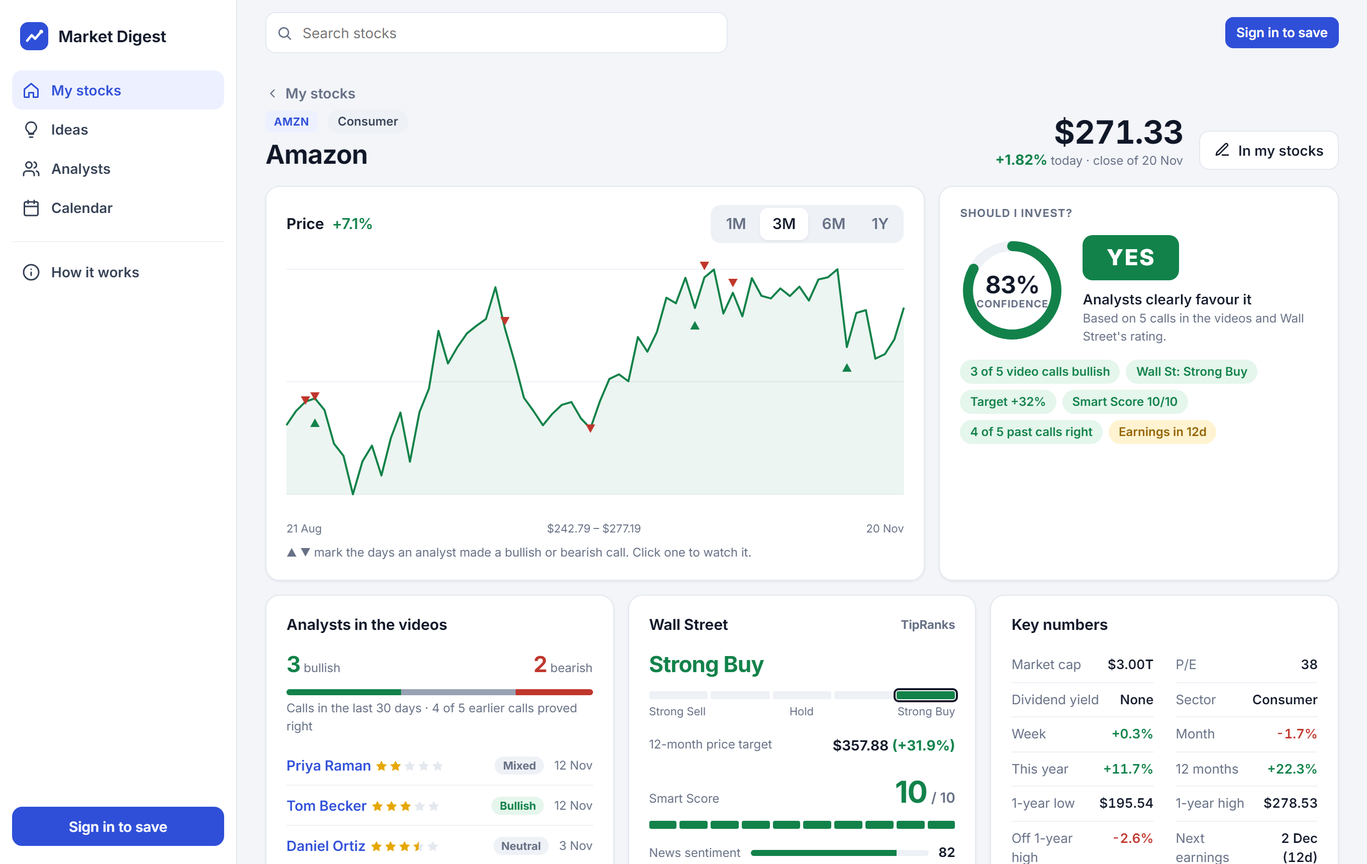
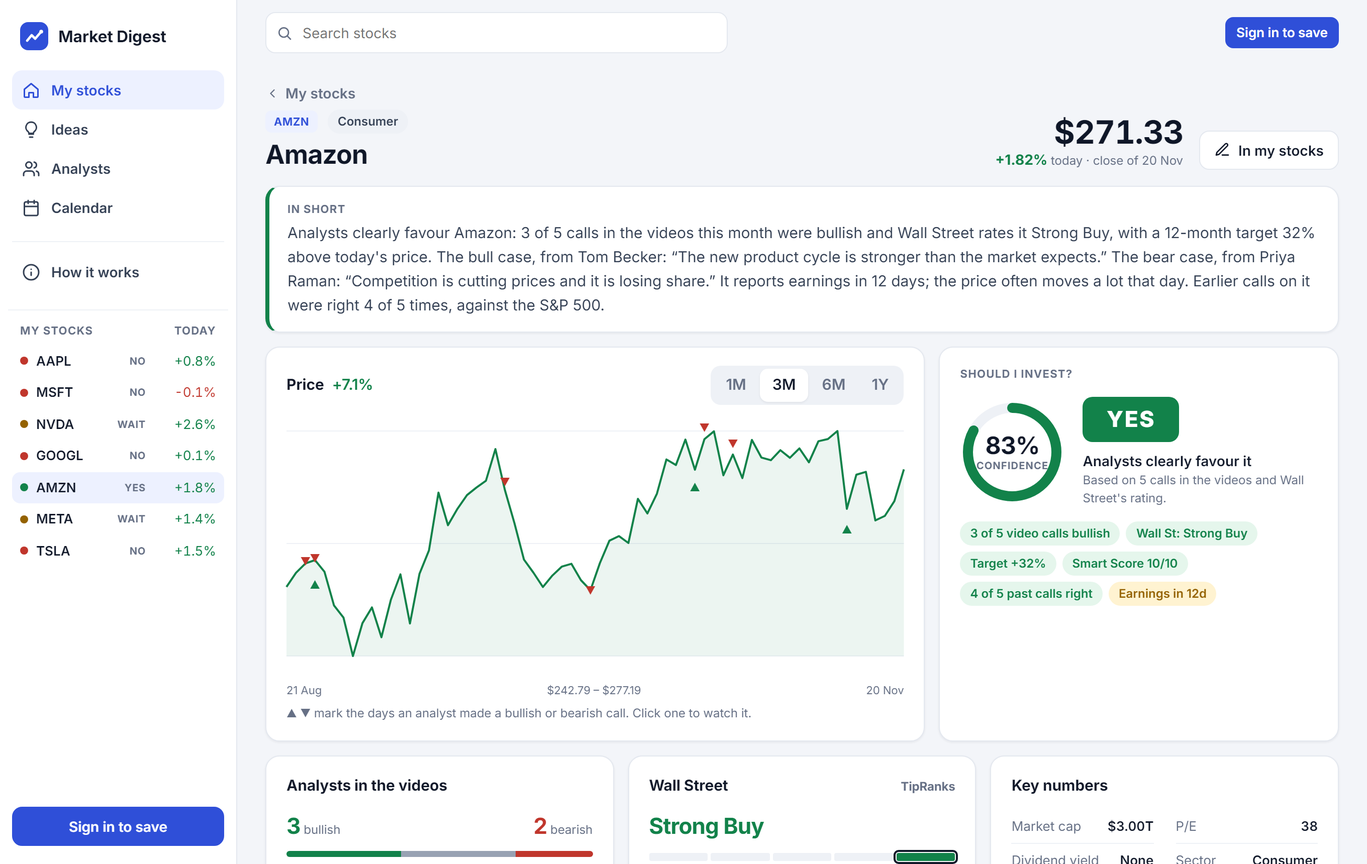
Cloud: what happened, in plain words; prices a day late fixed
From using the app next to Google Finance:
- "In short" on each stock page: the engine writes a short paragraph from the
  card (where analysts stand and why, the move, bull and bear case, earnings).
- Home opens with the day's big moves in your stocks (4% and more), as Google
  Finance's "Why is NVDA down 14%?"; the daily email says it too.
- The side menu lists your stocks with signal and the day's move.
- Prices: "fetched today" is not "up to date". A fetch made before the close
  was out was not retried, so NVDA's -14% on Friday was missing on Saturday.
  Now a stock is fetched until it has the latest finished session (at most
  every 2 hours). The 80-symbol cap applied before filtering, so stocks past
  the 80th never got prices; the engine now asks for its whole list.
- Tests: 164 unit tests, 54 browser checks.

diff --git a/cloud/web/js/app.js b/cloud/web/js/app.js
@@ -1,5 +1,5 @@
 // The app: the front page, the frame around every page, Home ("My stocks") and the stock page.
-import { el, icon, logoMark, googleMark, pct, tone, money, num, day, ago, sig, confidence, split, spark, ring, meter, stars, priceChart, toast, skeleton, safeUrl, SIGNAL_SAYS, says as signalSays, COLOR } from './ui.js';
+import { el, icon, logoMark, googleMark, pct, tone, money, num, day, ago, sig, confidence, split, spark, ring, meter, stars, priceChart, toast, skeleton, safeUrl, SIGNAL, SIGNAL_SAYS, says as signalSays, COLOR } from './ui.js';
 import { data, portfolio, forYou, cleanTicker, friendly } from './data.js';
 import { go, has, stockTable, rowMenu, addModal, holdingModal, addStocks, search, welcome, ideas, analysts, analyst, calendar, account, status, help, tile, callsTable } from './pages.js';
 
@@ -63,7 +63,7 @@ function showWorking(box, cards) {
     .sort((a, b) => (b.confidence_pct || 0) - (a.confidence_pct || 0) || (b.mentions || 0) - (a.mentions || 0))[0];
   if (!c) return;
   const quote = (b, cls) => b ? el('blockquote.' + cls, {}, '“' + b.text + '”', el('cite', {}, b.analyst || b.channel, ' · ', day(b.day))) : null;
-  box.replaceChildren(el('.sec-h', {}, el('.eyebrow', { text: 'Every signal shows its working' }), el('h2', { text: `Today’s ${c.ticker}, as you would see it` })),
+  box.replaceChildren(el('.sec-h', {}, el('.eyebrow', { text: 'Every signal shows its working' }), el('h2', { text: `Today’s ${c.ticker}, as you would see it` }), c.story ? el('p.story-l', { text: c.story }) : null),
     el('.work-g', {},
       el('.card.signal', {}, el('.row', {}, el('span.badge', { text: c.ticker }), el('b', { text: c.name || c.ticker }), el('span.sp'), el('b.num', { text: money(c.price, c.currency) })),
         el('.ringrow', {}, ring(c.confidence_pct, COLOR[c.signal]), el('div', {}, sig(c.signal, true), el('p', { style: { marginTop: '8px', fontWeight: 600 }, text: signalSays(c.signal, c.confidence_pct) }),
@@ -92,6 +92,16 @@ function shell(active, page) {
   input.onkeydown = e => { if (e.key === 'Enter') { const b = results.querySelector('button'); if (b && !results.hidden) b.click(); } if (e.key === 'Escape') { results.hidden = true; input.blur(); } };
   input.onblur = () => setTimeout(() => { results.hidden = true; }, 180);
   const freshBox = el('.fresh');
+  // your stocks, always in view (desktop): signal and the day's move, one click to each
+  const watch = el('.wl');
+  const here = decodeURIComponent((location.hash.match(/^#\/s\/(.+)$/) || [])[1] || '');
+  if (data.profile && data.profile.stocks && data.profile.stocks.length) data.cards(data.profile.stocks.map(s => s.t)).then(cards => {
+    const list = data.profile.stocks.map(s => cards[s.t] || { ticker: s.t, signal: 'none' });
+    watch.replaceChildren(el('.wl-h', {}, el('span', { text: 'My stocks' }), el('span', { text: 'Today' })),
+      ...list.map(c => el('a.wl-row', { href: '#/s/' + encodeURIComponent(c.ticker), 'aria-current': c.ticker === here ? 'page' : null, title: SIGNAL_SAYS[c.signal] || '' },
+        el('i', { style: { background: COLOR[c.signal] || COLOR.none } }), el('b', { text: c.ticker }), el('span.wl-s', { text: SIGNAL[c.signal] || '—' }),
+        el('span', { class: 'wl-d ' + tone(c.change_pct_day), text: c.change_pct_day == null ? '—' : pct(c.change_pct_day) }))));
+  }).catch(() => {});
   const top = el('.top', {}, el('a.logo', { href: '#/' }, logoMark()), el('.search', {}, icon('search'), input, results), el('span.top-sp'),
     data.example ? el('button.btn.primary.sm', { onclick: signIn }, el('span.hide-m', { text: 'Sign in to save' }), el('span.hide-desktop', { text: 'Sign in' })) :
       el('a', { href: '#/account', 'aria-label': 'Account', class: 'hide-desktop' }, data.user && data.user.photoURL ? el('img.avatar', { src: data.user.photoURL, alt: '', referrerpolicy: 'no-referrer' }) : el('.avatar', { text: name[0].toUpperCase() })));
@@ -99,7 +109,7 @@ function shell(active, page) {
   app.replaceChildren(el('.shell', {},
     el('aside.side', {}, el('a.logo', { href: '#/' }, logoMark(), el('span', { text: 'Market Digest' })), nav('nav.nav'),
       el('nav.nav', { style: { marginTop: '10px', borderTop: '1px solid var(--line-2)', paddingTop: '10px' } }, el('a', { href: '#/help', 'aria-current': active === 'help' ? 'page' : null }, icon('info'), el('span', { text: 'How it works' }))),
-      el('.fill'), freshBox,
+      watch, freshBox,
       data.example ? el('button.btn.primary', { onclick: signIn }, 'Sign in to save') :
         el('a.me', { href: '#/account' }, data.user && data.user.photoURL ? el('img.avatar', { src: data.user.photoURL, alt: '', referrerpolicy: 'no-referrer' }) : el('.avatar', { text: name[0].toUpperCase() }),
           el('.who', {}, el('b', { text: p.name || 'Account' }), el('span.small', { text: p.email || '' })))),
@@ -189,7 +199,15 @@ async function home(root) {
   }
   side.classList.add('f3'); tableCard.classList.add('f2');   // on a phone the table comes before the market cards
   hold.classList.add('flow');
-  hold.replaceChildren(tiles, el('.cols', {}, healthCard ? el('.stack', {}, todoCard, healthCard) : todoCard, side), tableCard,
+  // the day's big moves in your stocks come first, as Google Finance does ("Why is NVDA down 14%?")
+  const movers = rows.filter(r => Math.abs(r.change_pct_day || 0) >= 4).sort((a, b) => Math.abs(b.change_pct_day) - Math.abs(a.change_pct_day)).slice(0, 2);
+  const onDay = r => r.as_of ? ' on ' + new Date(r.as_of + 'T12:00:00').toLocaleDateString(undefined, { weekday: 'long' }) : ' today';
+  const moverBox = movers.length ? el('.movers', {}, movers.map(r => el('a.mover.' + (r.change_pct_day > 0 ? 'up' : 'down'), { href: '#/s/' + encodeURIComponent(r.ticker) },
+    el('span.dot.' + (r.change_pct_day > 0 ? 'good' : 'bad'), {}, icon(r.change_pct_day > 0 ? 'up' : 'down')),
+    el('span.tx', {}, el('b', { text: `${r.ticker} ${r.change_pct_day > 0 ? 'rose' : 'fell'} ${Math.abs(r.change_pct_day).toFixed(1)}%${onDay(r)}` }),
+      el('span.small', { text: r.signal === 'none' ? ' · no analyst view yet' : ` · analysts say ${SIGNAL[r.signal]}` })),
+    el('span.go', {}, 'What analysts say', icon('right'))))) : null;
+  hold.replaceChildren(moverBox, tiles, el('.cols', {}, healthCard ? el('.stack', {}, todoCard, healthCard) : todoCard, side), tableCard,
     el('p.small', { class: 'f4', text: 'The signals sum up what analysts said; they are not personal financial advice and can be wrong.' }));
   if (!side.children.length) hold.querySelector('.cols').style.gridTemplateColumns = '1fr';
 }
@@ -278,6 +296,7 @@ async function stock(root, t) {
   hold.replaceChildren(
     el('.quote', {}, el('div', {}, el('.row', {}, el('span.badge', { text: t }), c.sector ? el('span.chip', { text: c.sector }) : null), el('h1', { style: { marginTop: '6px' }, text: c.name || t })), el('span.sp'),
       el('div', { style: { textAlign: 'right' } }, el('.px', { text: money(c.price, c.currency) }), el('div', {}, el('b', { class: tone(c.change_pct_day), text: pct(c.change_pct_day, 2) }), el('span.small', { text: ` today · close of ${day(c.as_of)}` }))), act),
+    c.story ? el('.story.' + c.signal, {}, el('.eyebrow', { text: 'In short' }), el('p', { text: c.story })) : null,
     el('.hero', {}, el('.card', {}, el('h2', {}, 'Price', move != null ? el('span', { class: tone(move), style: { fontWeight: 600 }, text: pct(move) }) : null, el('span.sp'), seg), chartBox,
       el('p.small', { style: { marginTop: '6px' }, text: '▲ ▼ mark the days an analyst made a bullish or bearish call. Click one to watch it.' })), signalCard),
     el('.grid.g3', { style: { marginTop: '14px' } }, videoCard, streetCard, stats),

diff --git a/cloud/web/styles.css b/cloud/web/styles.css
@@ -69,6 +69,14 @@ button.chip{cursor:pointer}button.chip:hover{filter:brightness(.97)}
 .nav a[aria-current=page]{background:var(--brand-soft);color:var(--brand)}
 .nav svg{width:18px;height:18px;flex:none}
 .side .fill{flex:1}
+.wl{flex:1;min-height:0;overflow:auto;margin:14px -4px 6px;padding:0 4px;border-top:1px solid var(--line-2)}
+.wl-h{display:flex;justify-content:space-between;font-size:11px;font-weight:700;color:var(--muted);text-transform:uppercase;letter-spacing:.06em;padding:12px 8px 6px}
+.wl-row{display:grid;grid-template-columns:8px 1fr auto 62px;align-items:center;gap:8px;padding:6px 8px;border-radius:8px;color:var(--ink);font-size:13px}
+.wl-row:hover{background:var(--hover);text-decoration:none}.wl-row[aria-current=page]{background:var(--brand-soft)}
+.wl-row i{width:8px;height:8px;border-radius:50%}
+.wl-row b{font-weight:600;overflow:hidden;text-overflow:ellipsis}
+.wl-s{font-size:10px;font-weight:700;letter-spacing:.04em;color:var(--muted)}
+.wl-d{text-align:right;font-variant-numeric:tabular-nums}
 .fresh{font-size:12px;color:var(--muted);padding:8px 10px}
 .fresh b{display:block;color:var(--ink-2);font-weight:600}
 .me{display:flex;align-items:center;gap:10px;padding:8px;border-radius:10px;color:var(--ink);border:0;background:none;width:100%;text-align:left}
@@ -128,6 +136,15 @@ button.chip{cursor:pointer}button.chip:hover{filter:brightness(.97)}
 .dot.warn{background:var(--amber-soft);color:var(--amber)}.dot.info{background:var(--brand-soft);color:var(--brand)}
 .todo .tx{flex:1;min-width:0}.todo .tx b{font-weight:700}
 .todo .go{color:var(--grey)}.todo .go svg{width:16px;height:16px;display:block}
+
+/* ---------- the day's big moves, on Home */
+.movers{display:grid;gap:8px;margin-bottom:14px}
+.mover{display:flex;align-items:center;gap:12px;padding:10px 14px;border-radius:12px;background:var(--surface);border:1px solid var(--line);color:var(--ink);box-shadow:var(--shadow)}
+.mover:hover{text-decoration:none;border-color:var(--grey)}
+.mover.down{background:color-mix(in srgb,var(--red-soft) 55%,var(--surface))}.mover.up{background:color-mix(in srgb,var(--green-soft) 55%,var(--surface))}
+.mover .tx{flex:1;min-width:0}.mover .go{display:inline-flex;align-items:center;gap:4px;font-weight:600;color:var(--brand);white-space:nowrap}
+.mover .go svg{width:16px;height:16px}
+@media (max-width:640px){.mover .go{font-size:0}.mover .go svg{width:18px;height:18px}}
 
 /* ---------- tables */
 .scroll{overflow-x:auto}
@@ -196,6 +213,12 @@ tr.link{cursor:pointer}tr.link:hover td{background:var(--hover)}
 .say cite{display:block;font-style:normal;font-size:12px;color:var(--muted);margin-top:2px}
 .big{font-size:22px;font-weight:700;letter-spacing:-.02em}
 .score{display:flex;align-items:baseline;gap:4px}.score b{font-size:30px;font-weight:700;letter-spacing:-.02em}.score span{color:var(--muted);font-weight:600}
+
+/* ---------- "in short": the stock in plain words */
+.story{background:var(--surface);border:1px solid var(--line);border-left:4px solid var(--grey);border-radius:var(--r);padding:14px 18px;margin:0 0 14px;box-shadow:var(--shadow)}
+.story.yes{border-left-color:var(--green)}.story.no{border-left-color:var(--red)}.story.wait{border-left-color:var(--amber)}
+.story p{font-size:15px;line-height:1.6;color:var(--ink-2);margin-top:4px;max-width:78em}
+.story-l{font-size:16px;line-height:1.6;color:var(--ink-2);margin-top:10px;max-width:60em}
 
 /* ---------- lists */
 .list>*{display:flex;gap:10px;align-items:baseline;padding:9px 0;border-bottom:1px solid var(--line-2)}

diff --git a/cloud/web/js/data.js b/cloud/web/js/data.js
@@ -212,7 +212,7 @@ export function forYou(rows) {
     }
     if (r.weight != null && r.weight >= 35) add(70, 'warn', 'pie', `is ${Math.round(r.weight)}% of your portfolio: a lot on one stock`);
     if (r.signal === 'yes' && (r.confidence_pct || 0) >= 75 && !r.owned) add(55 + r.confidence_pct / 10, 'good', 'up', `Strong Yes (${r.confidence_pct}%) and you do not own it`);
-    if (Math.abs(r.change_pct_day || 0) >= 5) add(50, r.change_pct_day > 0 ? 'good' : 'bad', r.change_pct_day > 0 ? 'up' : 'down', `moved ${r.change_pct_day > 0 ? '+' : ''}${r.change_pct_day.toFixed(1)}% today`);
+    // big moves (4% and more) have their own banner at the top of Home
     if ((r.factors || []).some(f => /disagree/i.test(f.text))) add(40, 'info', 'info', 'Video analysts and Wall Street disagree');
   }
   out.sort((a, b) => b.pri - a.pri);

diff --git a/tests/test_cloud.py b/tests/test_cloud.py
@@ -3,6 +3,7 @@ runs against an in-memory store with invented data. Run from the project folder:
 import json
 import tempfile
 import unittest
+from unittest import mock
 from datetime import date, datetime, timedelta, timezone
 from pathlib import Path
 
@@ -269,6 +270,30 @@ class Engine(Globals):
         self.assertIsNone(fresh["NVDA"]["changed"])
         self.assertEqual([h["s"] for h in fresh["NVDA"]["history"]], [first["NVDA"]["signal"]])
 
+    def test_a_price_fetched_before_the_close_was_out_is_fetched_again(self):
+        sat_morning = datetime(2026, 11, 21, 1, 25, tzinfo=timezone.utc)
+        self.assertEqual(prices.last_session(sat_morning), "2026-11-20")                                  # Friday's close
+        self.assertEqual(prices.last_session(datetime(2026, 11, 20, 20, 0, tzinfo=timezone.utc)), "2026-11-19")   # not out yet
+        self.assertEqual(prices.last_session(datetime(2026, 11, 23, 9, 0, tzinfo=timezone.utc)), "2026-11-20")    # Monday morning
+        stale = {"day": "2026-11-21", "closes": [["2026-11-19", 145.98]], "checked": "2026-11-21T01:25:00+00:00"}
+        later = sat_morning + timedelta(hours=8)
+        self.assertTrue(prices.needs_fetch(stale, "2026-11-21", "2026-11-20", later))      # the 14% fall must not wait a day
+        self.assertFalse(prices.needs_fetch(stale, "2026-11-21", "2026-11-20", sat_morning + timedelta(minutes=30)))   # not every run
+        fresh = {**stale, "closes": [["2026-11-20", 125.53]]}
+        self.assertFalse(prices.needs_fetch(fresh, "2026-11-21", "2026-11-20", later))
+        self.assertTrue(prices.needs_fetch(fresh, "2026-11-22", "2026-11-20", later))      # a new day: asked once more
+
+    def test_every_stock_in_the_universe_gets_its_price_not_only_the_first_80(self):
+        with tempfile.TemporaryDirectory() as tmp, mock.patch.object(prices, "CACHE", Path(tmp) / "prices.json"):
+            asked = []
+            fetch = lambda s: asked.append(s) or {"name": s, "currency": "USD", "closes": [["2026-11-20", 1.0]]}
+            names = [f"T{i:03d}" for i in range(150)]
+            prices.refresh(names, log=lambda m: None, fetcher=fetch, pause=0, now=datetime(2026, 11, 21, 9, tzinfo=timezone.utc), limit=200)
+            self.assertEqual(len(asked), 151)   # the S&P 500 and all 150
+            asked.clear()
+            prices.refresh(names, log=lambda m: None, fetcher=fetch, pause=0, now=datetime(2026, 11, 21, 12, tzinfo=timezone.utc), limit=200)
+            self.assertEqual(asked, [])         # all have Friday's close: nothing to do
+
     def test_dividend_yields_kept_from_before_the_fix_are_put_right_once(self):
         old = {"ticker": "NVDA", "consensus": "Buy", "dividend_yield_pct": 34.5}   # 0.345% multiplied by 100 again
         fixed = street.upgrade(old)
@@ -288,6 +313,24 @@ class Engine(Globals):
         st = store.get("stocks", "MSFT")["street"]
         self.assertEqual((st["dividend_yield_pct"], st["units"]), (0.7, street.UNITS))
         self.assertTrue(all((c.get("street") or {}).get("units", street.UNITS) == street.UNITS for c in store.all("stocks").values()))
+
+    def test_each_card_has_a_short_story_in_plain_words(self):
+        base = {"ticker": "NVDA", "name": "NVIDIA", "signal": "yes", "confidence_pct": 80, "calls": {"bullish": 5, "bearish": 1},
+                "street": {"consensus": "Strong Buy", "upside_pct": 20.0}, "change_pct_day": -14.01, "change_pct_month": -30.0, "as_of": "2026-11-20",
+                "bulls": [{"text": "Demand is ahead of supply.", "analyst": "A"}], "bears": [{"text": "Governance risk.", "analyst": "B"}],
+                "days_to_earnings": 3, "track": {"right": 4, "scored": 5}}
+        s = cards.story(base)
+        self.assertTrue(s.startswith("Analysts clearly favour NVIDIA: 5 of 6 calls in the videos this month were bullish and Wall Street rates it Strong Buy"))
+        self.assertIn("The price fell 14.0% on Friday, and is down 30% over the month.", s)
+        self.assertIn("The bull case, from A: “Demand is ahead of supply.”", s)
+        self.assertIn("earnings in 3 days", s)
+        self.assertIn("right 4 of 5 times", s)
+        # what goes against the signal comes after "though"; a split puts the two sides side by side
+        against = cards.story({**base, "signal": "no", "confidence_pct": 40, "calls": {"bullish": 1, "bearish": 0}, "street": {"consensus": "Moderate Sell"}})
+        self.assertIn("leaning against NVIDIA: Wall Street rates it Moderate Sell, though the one call in the videos this month was bullish.", against)
+        split = cards.story({**base, "signal": "wait", "calls": {"bullish": 3, "bearish": 3}})
+        self.assertIn("split on NVIDIA: 3 of 6 calls in the videos this month were bullish, while Wall Street", split)
+        self.assertTrue(cards.story({**base, "signal": "none", "calls": {"bullish": 0, "bearish": 0}, "street": None, "bulls": [], "bears": []}).startswith("No analyst has given a view on NVIDIA lately."))
 
     def test_stars_need_three_scored_calls(self):
         self.assertIsNone(cards.stars({"scored": 2, "hit_pct": 100, "edge": 9}))

diff --git a/cloud/engine/cards.py b/cloud/engine/cards.py
@@ -54,6 +54,69 @@ def case(calls, view, n=3):
     return out
 
 
+def _quote(text, n=150):
+    text = " ".join(str(text or "").split()).rstrip(".")
+    return text if len(text) <= n else text[:n].rsplit(" ", 1)[0] + "…"
+
+
+def story(c):
+    """A short paragraph in plain words, first thing on the stock page: where the analysts stand and why, how the
+    price moved, and what is coming. Made from the card alone (no model is asked), so it is always in step with it."""
+    name, n = c.get("name") or c["ticker"], c["calls"][insights.BULL] + c["calls"][insights.BEAR]
+    bull, conf, st = c["calls"][insights.BULL], c.get("confidence_pct") or 0, c.get("street") or {}
+    lead = {"yes": f"Analysts {'clearly favour' if conf >= 70 else 'lean towards'} {name}",
+            "no": f"Analysts are {'clearly against' if conf >= 70 else 'leaning against'} {name}",
+            "wait": f"Analysts are split on {name}", "none": f"No analyst has given a view on {name} lately"}[c["signal"]]
+    facts = []   # (words, which way they point: 1 for, -1 against, 0 neither)
+    if n:
+        bear = n - bull
+        words = (f"the one call in the videos this month was {'bullish' if bull else 'bearish'}" if n == 1
+                 else f"{bull} of {n} calls in the videos this month were bullish")
+        facts.append((words, 1 if bull > bear else -1 if bear > bull else 0))
+    if st.get("consensus"):
+        up = st.get("upside_pct")
+        target = f", with a 12-month target {abs(up):.0f}% {'above' if up >= 0 else 'below'} today's price" if up is not None else ""
+        s = insights.street_score(st["consensus"]) or 0
+        facts.append((f"Wall Street rates it {st['consensus']}{target}", 1 if s > 0 else -1 if s < 0 else 0))
+    way = {"yes": 1, "no": -1}.get(c["signal"], 0)
+    if not facts:
+        body = ""
+    elif not way:   # split: the two sides, side by side
+        body = ": " + ", while ".join(w for w, _ in facts)
+    else:           # what supports the signal first, what goes against it after
+        pro = [w for w, d in facts if d == way]
+        con = [("only " + w if way > 0 and w[0].isdigit() else w) for w, d in facts if d != way]
+        body = ": " + (" and ".join(pro) + (", though " + " and ".join(con) if con else "") if pro else "; ".join(con))
+    out = [lead + body + "."]
+    day, month = c.get("change_pct_day"), c.get("change_pct_month")
+    when = ""
+    if c.get("as_of"):
+        try:
+            when = " on " + _date(c["as_of"]).strftime("%A")
+        except ValueError:
+            pass
+    if day is not None and abs(day) >= 3:
+        out.append(f"The price {'rose' if day > 0 else 'fell'} {abs(day):.1f}%{when}"
+                   + (f", and is {'up' if month > 0 else 'down'} {abs(month):.0f}% over the month." if month is not None and abs(month) >= 10 and (month > 0) == (day > 0) else "."))
+    elif month is not None and abs(month) >= 10:
+        out.append(f"The price is {'up' if month > 0 else 'down'} {abs(month):.0f}% over the past month.")
+    bulls, bears = c.get("bulls") or [], c.get("bears") or []
+    who = lambda b: b.get("analyst") or b.get("channel") or "an analyst"
+    if bulls and bears:
+        out.append(f"The bull case, from {who(bulls[0])}: “{_quote(bulls[0]['text'])}.” The bear case, from {who(bears[0])}: “{_quote(bears[0]['text'])}.”")
+    elif bulls or bears:
+        b = (bulls or bears)[0]
+        out.append(f"The latest {'bullish' if bulls else 'bearish'} case, from {who(b)}: “{_quote(b['text'])}.”")
+    days = c.get("days_to_earnings")
+    if days is not None and days <= 14:
+        d = int(days)
+        out.append(f"It reports earnings {'today' if d == 0 else 'tomorrow' if d == 1 else f'in {d} days'}; the price often moves a lot that day.")
+    track = c.get("track")
+    if track and track.get("scored", 0) >= 3:
+        out.append(f"Earlier calls on it were right {track['right']} of {track['scored']} times, against the S&P 500.")
+    return " ".join(out)
+
+
 def fingerprint(doc):
     """The same for the same content, whatever the time: a card that did not change is not written again."""
     body = {k: v for k, v in doc.items() if k not in ("updated", "h")}
@@ -74,6 +137,7 @@ def stock_card(t, calls30, calls90, cache, records, street, events, today, prev)
     c["bulls"], c["bears"] = case(mine90, insights.BULL), case(mine90, insights.BEAR)
     c["mentions"] = c["calls"][insights.BULL] + c["calls"][insights.BEAR]
     c["unknown"] = c["price"] is None and not mine90 and not st
+    c["story"] = None if c["unknown"] else story(c)
     # the signal over time: a new line only when it changes
     same_rules = (prev or {}).get("method") == METHOD
     history = list((prev or {}).get("history") or []) if same_rules else []

diff --git a/app/prices.py b/app/prices.py
@@ -127,14 +127,43 @@ def save(cache):
     tmp.replace(CACHE)
 
 
-def refresh(symbols, log=print, fetcher=None, pause=0.3):
-    """Fetch what is not already fetched today. Returns (fetched, failed). Never raises: prices are extra."""
+def last_session(now=None):
+    """The latest US trading day whose close is in: today after 21:15 UTC (the close is 20:00 or 21:00 UTC with
+    daylight saving), else the weekday before. Holidays are not known; on one, a stock is simply asked again later."""
+    now = now or datetime.now(timezone.utc)
+    d = now.date() if now.hour * 60 + now.minute >= 21 * 60 + 15 else now.date() - timedelta(days=1)
+    while d.weekday() >= 5:
+        d -= timedelta(days=1)
+    return d.isoformat()
+
+
+RETRY_HOURS = 2   # a stock still missing the latest close is asked again after this long, not on every run
+
+
+def needs_fetch(entry, today, session, now):
+    """Fetched today is not enough: the closes must reach the latest finished session. A fetch made before the data
+    was out (Friday's close missing on Saturday morning) is tried again, at most every RETRY_HOURS."""
+    if not entry or entry.get("day") != today:
+        return True
+    if ((entry.get("closes") or [[""]])[-1][0] or "") >= session:
+        return False
+    try:
+        return (now - datetime.fromisoformat(entry["checked"])).total_seconds() >= RETRY_HOURS * 3600
+    except (KeyError, TypeError, ValueError):
+        return True
+
+
+def refresh(symbols, log=print, fetcher=None, pause=0.3, now=None, limit=MAX_SYMBOLS):
+    """Fetch what is not up to date: not fetched today, or still without the latest close. At most `limit` a run,
+    in the order given. Returns (fetched, failed). Never raises: prices are extra."""
     fetcher = fetcher or fetch
-    today = date.today().isoformat()
-    wanted = list(dict.fromkeys(s for s in (clean(x) for x in [SP500, *symbols]) if s))[:MAX_SYMBOLS]
+    today = (now.date() if now else date.today()).isoformat()
+    now = now or datetime.now(timezone.utc)
+    session = last_session(now)
+    wanted = list(dict.fromkeys(s for s in (clean(x) for x in [SP500, *symbols]) if s))
     with _lock:
         cache = load()
-        todo = [s for s in wanted if (cache.get(s) or {}).get("day") != today]
+        todo = [s for s in wanted if needs_fetch(cache.get(s), today, session, now)][:limit]
         fetched, failed = [], []
         for s in todo:
             try:
@@ -143,7 +172,8 @@ def refresh(symbols, log=print, fetcher=None, pause=0.3):
                 theirs = {d: c for d, c in got["closes"]}
                 mine = [[d, c] for d, c in old.get("closes") or [] if d not in theirs]   # days only recorded here (Google Finance)
                 cache[s] = {**old, **got, "name": got.get("name") or old.get("name", ""), "currency": got.get("currency") or old.get("currency", ""),
-                            "closes": sorted([[d, c] for d, c in theirs.items()] + mine), "day": today}
+                            "closes": sorted([[d, c] for d, c in theirs.items()] + mine), "day": today,
+                            "checked": now.isoformat(timespec="seconds")}
                 fetched.append(s)
             except Exception as err:
                 failed.append(s)

diff --git a/cloud/engine/mail.py b/cloud/engine/mail.py
@@ -48,6 +48,9 @@ def user_view(user, cards, today=None, days=1):
         if ch:
             notes.append({"tone": "good" if ch["to"] == "yes" else "bad" if ch["to"] == "no" else "warn", "changed": True, "on": ch["on"],
                           "text": f"{r['ticker']} turned {SIGNAL[ch['to']][0]} (was {SIGNAL[ch['from']][0]})"})
+        move = r.get("change_pct_day")
+        if days == 1 and isinstance(move, (int, float)) and abs(move) >= 4:   # the day's big moves, as on Home
+            notes.append({"tone": "good" if move > 0 else "bad", "text": f"{r['ticker']} {'rose' if move > 0 else 'fell'} {abs(move):.1f}% (analysts say {SIGNAL[r['signal']][0]})"})
         if r["shares"] and r["signal"] == "no":
             notes.append({"tone": "bad", "text": f"You own {r['ticker']}: analysts say No"})
         if r.get("days_to_earnings") is not None and r["days_to_earnings"] <= 5:

diff --git a/cloud/engine/run.py b/cloud/engine/run.py
@@ -147,7 +147,8 @@ def run(store, settings, sources=None, now=None, log=print, work=None, read_vide
     universe = list(dict.fromkeys(t for t in (prices.clean(x) for x in [*mine, *sources["base_tickers"], *packs, *called]) if t))[:MAX_UNIVERSE]
 
     # 3. prices: once a day a symbol
-    step("Prices", lambda: prices.refresh(universe, log, fetcher=price_fetcher, pause=0.15 if price_fetcher is None else 0))
+    step("Prices", lambda: prices.refresh(universe, log, fetcher=price_fetcher, pause=0.15 if price_fetcher is None else 0,
+                                                  now=now, limit=len(universe) + 1))
     cache = prices.load()
 
     # 4. Wall Street's ratings, a few batches a weekday

diff --git a/cloud/README.md b/cloud/README.md
@@ -50,7 +50,7 @@ service grows with the number of channels, not the number of users.
 | `tools/make_symbols.py` | Builds the search list at deploy time. |
 | `tools/demo_data.py` | Invented data for local work and tests. |
 | `tests/live.cjs` | The live site as a visitor sees it before signing in: pages, example stocks, phones, files, headers, what a stranger may read. Changes nothing. |
-| `tests/e2e.cjs` | The whole product in a browser against the emulators: 52 checks, the security rules included. |
+| `tests/e2e.cjs` | The whole product in a browser against the emulators: 54 checks, the security rules included. |
 
 The signal itself, the scoring of analysts' calls and the notes format are the tested code in `app/`
 (`insights.py`, `prices.py`, `tipranks.py`, `digest.py`), which the engine imports.
@@ -81,8 +81,8 @@ FIRESTORE_EMULATOR_HOST=127.0.0.1:8080 GCLOUD_PROJECT=demo-md python cloud/tools
 Open http://127.0.0.1:5000. "Continue with Google" opens the emulator's own sign-in, where any made-up account works.
 
 ```
-python -m unittest                 # 159 tests: the desktop app's, and the engine's on invented data
-node cloud/tests/e2e.cjs           # 52 checks in a real browser (npm i -g playwright)
+python -m unittest                 # 164 tests: the desktop app's, and the engine's on invented data
+node cloud/tests/e2e.cjs           # 54 checks in a real browser (npm i -g playwright)
 node cloud/tests/live.cjs          # the deployed site, signed out (BASE=https://… for another project)
 ```
 

diff --git a/CHANGELOG.md b/CHANGELOG.md
@@ -2,6 +2,20 @@
 
 Installed copies update themselves: Market Digest shows **Update now** on its Home page when a new version is out.
 
+## Cloud version: what happened, in plain words (21 Nov 2026)
+
+Ideas taken from Google Finance, made from our own data:
+
+- **"In short" on every stock page**: one paragraph saying where the analysts stand and why (supporting facts first,
+  what goes against them after "though"), how the price moved, the bull and the bear case in the analysts' words,
+  and what is coming (earnings). Written by the engine from the card, so it never disagrees with the numbers.
+- **The day's big moves first**: Home opens with "NVDA fell 14.0% on Friday · analysts say WAIT", one click from what
+  the analysts say. The daily email says it too.
+- **Your stocks always in view**: the side menu lists them with their signal and the day's move.
+- **Prices a day late, fixed**: a stock fetched before the close was out (Friday's close missing on Saturday morning)
+  was not asked again that day, so NVDA's 14% fall did not show. A stock now counts as up to date only once it has
+  the latest finished trading day. And every stock in the engine's list gets its price, not only the first 80.
+
 ## Cloud version: trust and polish (21 Nov 2026)
 
 - **Signals you can believe.** One vote an analyst (their latest call), recent calls count most, Wall Street's
